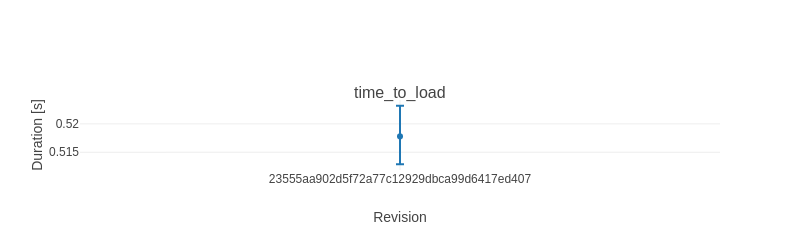
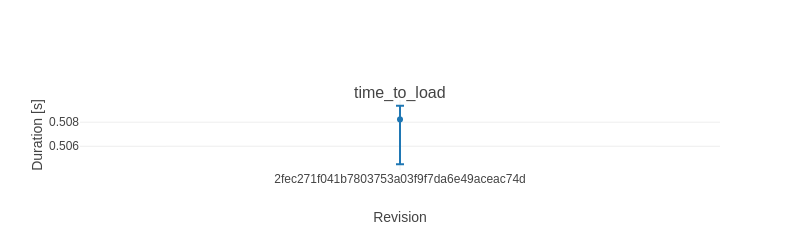
Deploying to benchmarks from @ EpiAware/ReparameterisedDistributions.jl@2fec271f041b7803753a03f9f7da6e49aceac74d 🚀

Changed region(s): [[0.3125, 0.672, 0.6562, 0.756], [0.0625, 0.56, 0.125, 0.644], [0.0625, 0.448, 0.125, 0.532]]

diff --git a/history/table.md b/history/table.md
@@ -1,8 +1,8 @@
-|              | 23555aa902d5f7... |
+|              | 2fec271f041b78... |
 |:-------------|:-----------------:|
-| time_to_load | 0.518 ± 0.01 s    |
+| time_to_load | 0.508 ± 0.0048 s  |
 
-|              | 23555aa902d5f7...       |
+|              | 2fec271f041b78...       |
 |:-------------|:-----------------------:|
 | time_to_load | 0.149 k allocs: 11.2 kB |
 

diff --git a/history/README.md b/history/README.md
@@ -1,6 +1,6 @@
 # ReparameterisedDistributions.jl benchmark history
 
-Revisions: 23555aa902d5f72a77c12929dbca99d6417ed407
+Revisions: 2fec271f041b7803753a03f9f7da6e49aceac74d
 
 See `table.md` for the ratio summary and the PNG
 files in this folder for per-benchmark timelines.
